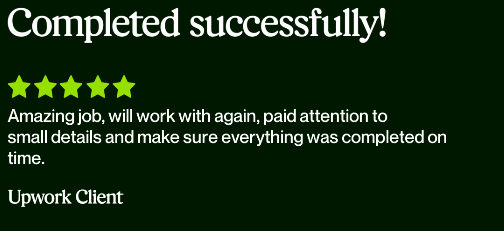
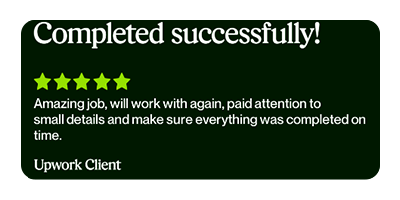
carousel

diff --git a/index.html b/index.html
@@ -99,7 +99,7 @@
             <h2 class="section-title">Skills</h2>
             <div class="skills__container bd-grid">     
             <div class="skills__text-container">
-            <h2 class="skills__subtitle">Other Skills</h2>
+            <h2 class="skills__subtitle"></h2>
             
             <p class="skills__text">
                 ✅ Google Earth<br>
@@ -171,10 +171,7 @@
                 </div>
                 <script type="text/javascript" async src="//cdn.credly.com/assets/utilities/embed.js"></script>
             </section>
-            
-    
-    
-    
+              
 </section>
 
             
@@ -196,7 +193,20 @@
                     </form-->
                 </div>
             </section>
+            <section class="testimonials section" id="testimonials">
+                <h2 class="section-title">Testimonials</h2>
+                <div class="carousel">
+                    <div class="carousel-inner">
+                        <div class="carousel-item"><img src="assets/testimonials/test1.png" alt="Testimonial 1"></div>
+                        <div class="carousel-item"><img src="assets/testimonials/test2.png" alt="Testimonial 2"></div>
+                        <div class="carousel-item"><img src="assets/testimonials/test3.png" alt="Testimonial 3"></div>
+                        <div class="carousel-item"><img src="assets/testimonials/test4.png" alt="Testimonial 4"></div>
+                        <div class="carousel-item"><img src="assets/testimonials/test5.png" alt="Testimonial 5"></div>
+                    </div>
+                </div>
+            </section>
         </main>
+
 
         <!--===== FOOTER =====-->
         <footer class="footer">
@@ -215,6 +225,9 @@
 
         <!--===== MAIN JS =====-->
         <script src="assets/js/main.js"></script>
+        
+           
+
     </body>
     
 </html>

diff --git a/assets/css/styles.css b/assets/css/styles.css
@@ -274,6 +274,7 @@ img {
 .skills__container {
   row-gap: 2rem;
   text-align: center;
+  background-image: url('assets/img/work1.jpg');
 }
 .skills__subtitle {
   margin-bottom: var(--mb-2);
@@ -509,3 +510,32 @@ img {
     width: 450px;
   }
 }
+.carousel {
+  width: 100%;
+  overflow: hidden;
+  position: relative;
+}
+
+.carousel-inner {
+  display: flex;
+  width: calc(400px * 5); /* 480px (width of each image) * number of images */
+  animation: scroll 10s linear infinite;
+}
+
+.carousel-item {
+  min-width: 400px; /* Width of each image */
+  box-sizing: border-box;
+}
+
+.carousel-item img {
+  width: 400px; /* Match the width of the image */
+  height: 200px; /* Match the height of the image */
+  display: block;
+}
+
+@keyframes scroll {
+  0% { transform: translateX(0); }
+  100% { transform: translateX(-100%); }
+}
+
+

diff --git a/assets/js/main.js b/assets/js/main.js
@@ -51,6 +51,17 @@ const sr = ScrollReveal({
 //     reset: true
 });
 
+/*===== carousel ANIMATION =====*/
+const carouselInner = document.querySelector('.carousel-inner');
+
+    carouselInner.addEventListener('mouseover', () => {
+        carouselInner.style.animationPlayState = 'paused';
+    });
+
+    carouselInner.addEventListener('mouseout', () => {
+        carouselInner.style.animationPlayState = 'running';
+});
+
 sr.reveal('.home__data, .about__img, .skills__subtitle, .skills__text',{}); 
 sr.reveal('.home__img, .about__subtitle, .about__text, .skills__img',{delay: 400}); 
 sr.reveal('.home__social-icon',{ interval: 200}); 
